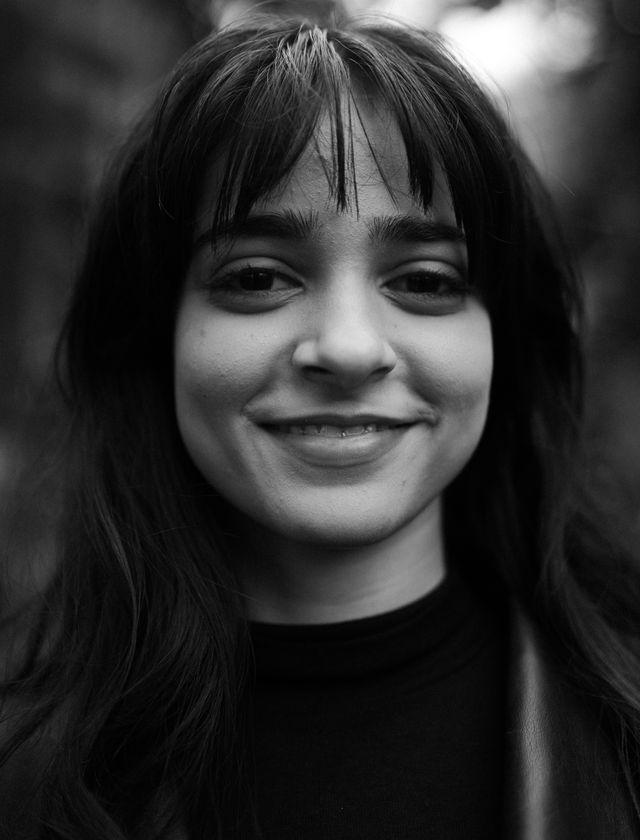
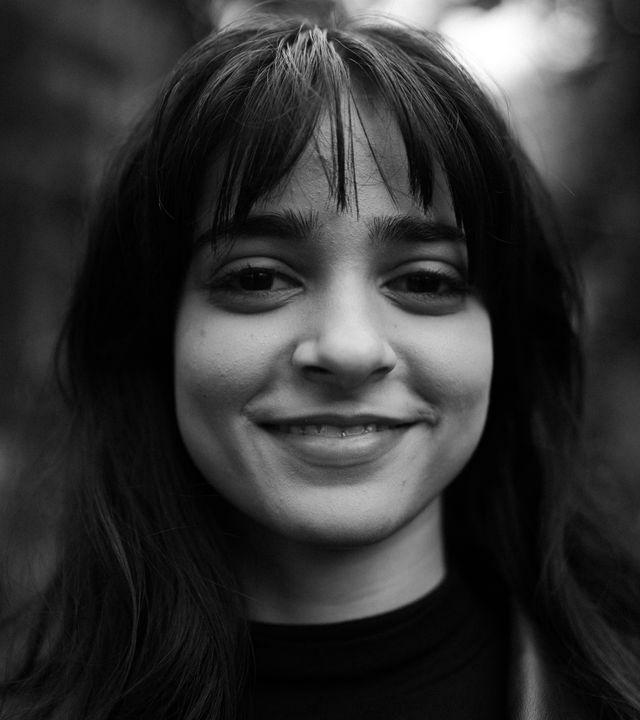
complete page layout and styling

diff --git a/style.css b/style.css
@@ -24,13 +24,18 @@ body {
   display: flex;
   justify-content: center;
   flex-direction: column;
-  gap: 2.5rem;
+  gap: 3rem;
 }
 
 .about-me .body,
 .project-card .description,
 .contacts p {
   font-family: sans-serif;
+}
+
+.about-me .body,
+.project-card .description {
+  color: rgb(75, 74, 74);
 }
 
 .container {
@@ -41,7 +46,12 @@ body {
   gap: 2.5rem;
 }
 
+.container:nth-of-type(1) {
+  padding-top: 2rem;
+}
+
 .container:nth-of-type(3) {
+  margin-top: 1rem;
   background-color: cadetblue;
   padding: 2rem 3rem;
 }
@@ -49,7 +59,63 @@ body {
 section {
   width: 100%;
   max-width: 40rem;
-  border: 1px solid red;
+}
+
+.about-me {
+  display: flex;
+  align-items: center;
+}
+
+.about-me::before {
+  content: "";
+  position: absolute;
+  inset: 0 0 auto;
+  height: 360px;
+  background: cadetblue;
+  clip-path: polygon(0 0, 100% 0, 100% 55%, 0 100%);
+  z-index: -1;
+}
+
+.about-me .name {
+  position: absolute;
+  color: white;
+  top: 20.5rem;
+  font-size: 2.5rem;
+  transform: translate(0.7rem);
+}
+
+.main-image {
+  width: 18rem;
+  position: relative;
+  box-shadow:
+    rgba(0, 0, 0, 0.16) 0px 3px 6px,
+    rgba(0, 0, 0, 0.23) 0px 3px 6px;
+}
+
+.about-me .content {
+  background-color: white;
+  box-shadow:
+    rgba(0, 0, 0, 0.16) 0px 3px 6px,
+    rgba(0, 0, 0, 0.23) 0px 3px 6px;
+  padding: 1rem;
+  display: flex;
+  flex-direction: column;
+  gap: 1rem;
+}
+
+.about-me .content .title {
+  font-size: 1.5rem;
+}
+
+.about-me .content .body {
+  font-size: 0.8rem;
+  line-height: 1.2rem;
+}
+
+.about-me .content .links {
+  margin-left: auto;
+  display: flex;
+  gap: 0.8rem;
 }
 
 .my-work {
@@ -188,9 +254,53 @@ section {
   width: 23rem;
 }
 
+a svg:hover {
+  opacity: 50%;
+}
+
 @media screen and (max-width: 700px) {
   .footer-image {
     width: 8rem;
+  }
+
+  .container:nth-of-type(1) {
+    padding-top: 5rem;
+  }
+
+  .about-me {
+    display: unset;
+  }
+
+  .about-me .name {
+    top: 2.5rem;
+    font-size: 2rem;
+    transform: translate(10rem);
+  }
+
+  .main-image {
+    float: left;
+    width: 12rem;
+    margin-top: -3rem;
+    margin-right: 1rem;
+  }
+
+  .about-me .content {
+    display: block;
+    margin-left: 5rem;
+    padding-bottom: 2rem;
+  }
+
+  .about-me .content .title {
+    margin: 1rem 0;
+    text-align: center;
+  }
+
+  .about-me .content .body {
+    padding-bottom: 1rem;
+  }
+
+  .about-me .content .links {
+    float: right;
   }
 }
 
@@ -198,6 +308,57 @@ section {
   .container,
   .container:nth-of-type(3) {
     padding: 1rem;
+  }
+
+  .container:nth-of-type(1) {
+    padding-top: 1.5rem;
+  }
+
+  .about-me {
+    display: flex;
+    flex-direction: column;
+    justify-content: center;
+    align-items: center;
+  }
+
+  .about-me .name {
+    top: 21rem;
+    transform: translate(1.9rem);
+    font-size: 4.2rem;
+    max-width: 290px;
+  }
+
+  .main-image {
+    width: 100%;
+    margin: 0;
+  }
+
+  .about-me .content {
+    margin: 0;
+    padding: 1rem 0 0;
+    box-shadow: none;
+    padding-bottom: 0rem;
+  }
+
+  .about-me .content .title {
+    font-size: 2.5rem;
+  }
+
+  .about-me .content .body {
+    font-size: 1.3rem;
+    line-height: 2rem;
+  }
+
+  .about-me .content .links {
+    float: none;
+    display: flex;
+    justify-content: center;
+    gap: 1.5rem;
+    margin-top: 1rem;
+  }
+
+  .about-me .content .links svg {
+    width: 2rem;
   }
 
   .my-work .title {

diff --git a/index.html b/index.html
@@ -9,20 +9,21 @@
   <body>
     <div class="container">
       <section class="about-me">
-        <p class="name">Ashley Williams</p>
         <picture>
           <source
-            media="(max-width: 600px)"
+            media="(max-width: 450px)"
             srcset="./images/woman-small.jpg"
           />
-          <source media="(max-width: 900px)" srcset="./images/woman-mid.jpg" />
+          <source media="(max-width: 600px)" srcset="./images/woman-mid.jpg" />
           <img src="./images/woman.jpg" alt="" class="main-image" />
         </picture>
+        <p class="name">Ashley Williams</p>
 
         <div class="content">
           <h3 class="title">About Me</h3>
           <p class="body">
-            Lorem, ipsum dolor sit amet consectetur adipisicing elit. Excepturi
+            Lorem, ipsum dolor sit amet consectetur adipisicing elit. Doloribus eum rerum cupiditate accusantium
+            dolore doloremque autem! Excepturi
             nulla, dolor veritatis nostrum optio cupiditate atque. Itaque qui at
             officiis soluta est. Doloribus eum rerum cupiditate accusantium
             dolore doloremque autem!
